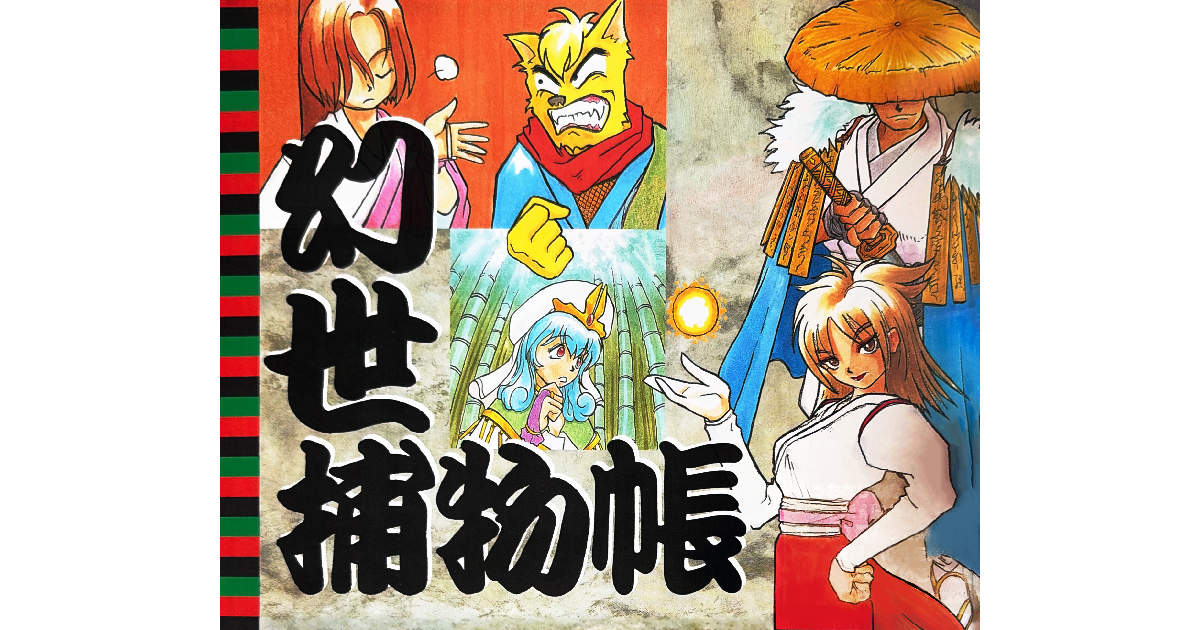
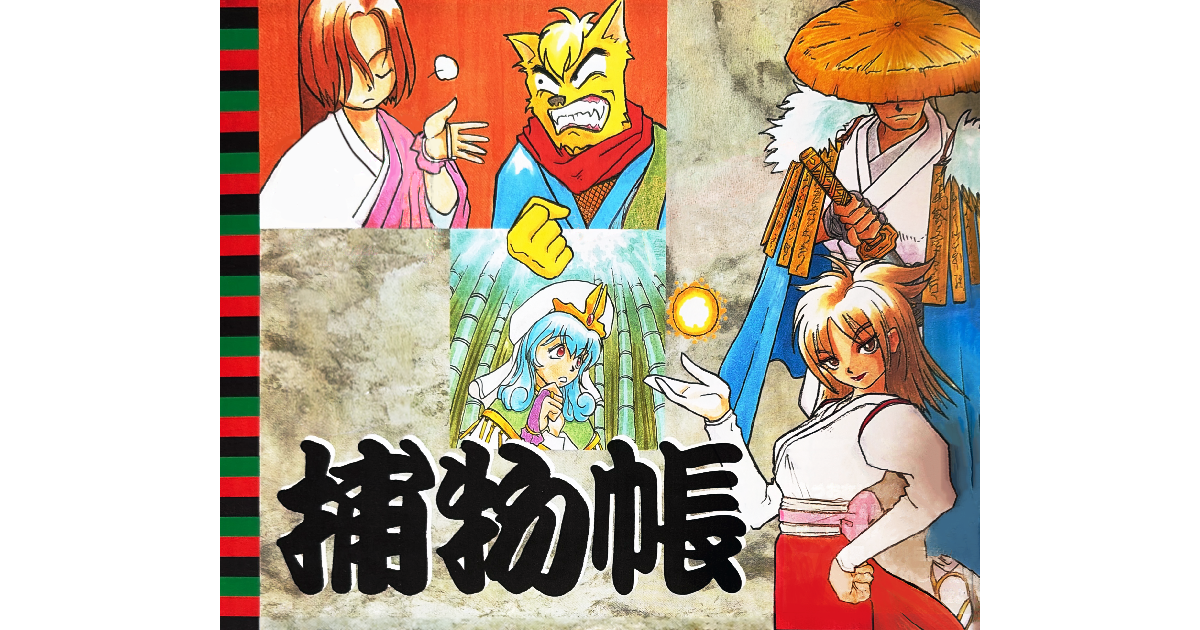
허브 무대 세로 크롭 기준 조정 (25% → 8%)
포물장 썸네일에서 하단 제목 글씨(捕物帳)를 뺀 새 이미지로 바꾼 뒤에도
크롭 창이 그 글씨 윗부분에 살짝 걸쳤다. 기준을 8%로 낮춰 크롭 창을 더
위로 옮기니 포물장·쾌도전 원화 하단의 제목 글씨가 완전히 빠지고, 다른
두 타이틀은 육안으로 차이가 없었다.

Changed region(s): [[0.2158, 0.181, 0.37, 0.6937]]

diff --git a/docs/style.css b/docs/style.css
@@ -363,7 +363,7 @@ button {
   display: block;
   aspect-ratio: 3 / 2;
   background-size: calc(100% * 1200 / 630) auto;
-  background-position: center 25%;
+  background-position: center 8%;
 }
 
 .hub-dots,

diff --git a/emulator/style.css b/emulator/style.css
@@ -363,7 +363,7 @@ button {
   display: block;
   aspect-ratio: 3 / 2;
   background-size: calc(100% * 1200 / 630) auto;
-  background-position: center 25%;
+  background-position: center 8%;
 }
 
 .hub-dots,

diff --git a/docs/NOTES.md b/docs/NOTES.md
@@ -162,11 +162,13 @@ HTML에 정적으로 들어 있다. 왼쪽 칸 맨 앞은 허브로 돌아가는
 투명한 좌우가 드러나 회색 여백이 생긴다 — 카드 시절 정사각 타일일 땐 우연히 가운데 630px만
 보여서 드러나지 않았고, 3:2로 바꾸자 바로 나타났다. 지금은
 `background-size: calc(100% * 1200 / 630) auto`로 가운데 630px 폭을 무대 폭에 맞추고
-위아래를 자른다. 세로 기준을 `25%`로 올린 건 얼굴이 대개 위쪽에 있어서인데, 덕분에 쾌도전
-원화 하단에 박힌 제목 글씨도 대부분 프레임 밖으로 빠진다(윗부분이 아래 가장자리에 조금
-걸린다). 보이는 부분이 630px 폭이라, 데스크톱 무대(최대 약 636px)는 레티나 화면에서 약
+위아래를 자른다. 세로 기준은 `8%`다 — 얼굴이 대개 위쪽에 있어서 낮게 잡았고, 그만큼 아래쪽은
+더 많이 잘려서 쾌도전·포물장 원화 하단에 박힌 제목 글씨가 완전히 프레임 밖으로 빠진다(포물장은
+`捕物帳` 글씨가 y≈440부터 시작하는데 이 기준에서 크롭 창이 y≈437에서 끝나 딱 그 앞에서
+잘린다). 보이는 부분이 630px 폭이라, 데스크톱 무대(최대 약 636px)는 레티나 화면에서 약
 2배 확대되어 살짝 부드럽게 보인다. 썸네일을 바꾸거나 타이틀을 추가할 땐 가운데
-630px(x 285~915)가 전부 불투명한지 확인해야 한다.
+630px(x 285~915)가 전부 불투명한지 확인하고, 원화 하단에 글씨나 로고가 박혀 있으면 이
+기준으로 잘리는지(대략 y>437은 안 보임) 같이 확인해야 한다.
 
 ---
 

diff --git a/emulator/NOTES.md b/emulator/NOTES.md
@@ -162,11 +162,13 @@ HTML에 정적으로 들어 있다. 왼쪽 칸 맨 앞은 허브로 돌아가는
 투명한 좌우가 드러나 회색 여백이 생긴다 — 카드 시절 정사각 타일일 땐 우연히 가운데 630px만
 보여서 드러나지 않았고, 3:2로 바꾸자 바로 나타났다. 지금은
 `background-size: calc(100% * 1200 / 630) auto`로 가운데 630px 폭을 무대 폭에 맞추고
-위아래를 자른다. 세로 기준을 `25%`로 올린 건 얼굴이 대개 위쪽에 있어서인데, 덕분에 쾌도전
-원화 하단에 박힌 제목 글씨도 대부분 프레임 밖으로 빠진다(윗부분이 아래 가장자리에 조금
-걸린다). 보이는 부분이 630px 폭이라, 데스크톱 무대(최대 약 636px)는 레티나 화면에서 약
+위아래를 자른다. 세로 기준은 `8%`다 — 얼굴이 대개 위쪽에 있어서 낮게 잡았고, 그만큼 아래쪽은
+더 많이 잘려서 쾌도전·포물장 원화 하단에 박힌 제목 글씨가 완전히 프레임 밖으로 빠진다(포물장은
+`捕物帳` 글씨가 y≈440부터 시작하는데 이 기준에서 크롭 창이 y≈437에서 끝나 딱 그 앞에서
+잘린다). 보이는 부분이 630px 폭이라, 데스크톱 무대(최대 약 636px)는 레티나 화면에서 약
 2배 확대되어 살짝 부드럽게 보인다. 썸네일을 바꾸거나 타이틀을 추가할 땐 가운데
-630px(x 285~915)가 전부 불투명한지 확인해야 한다.
+630px(x 285~915)가 전부 불투명한지 확인하고, 원화 하단에 글씨나 로고가 박혀 있으면 이
+기준으로 잘리는지(대략 y>437은 안 보임) 같이 확인해야 한다.
 
 ---
 
